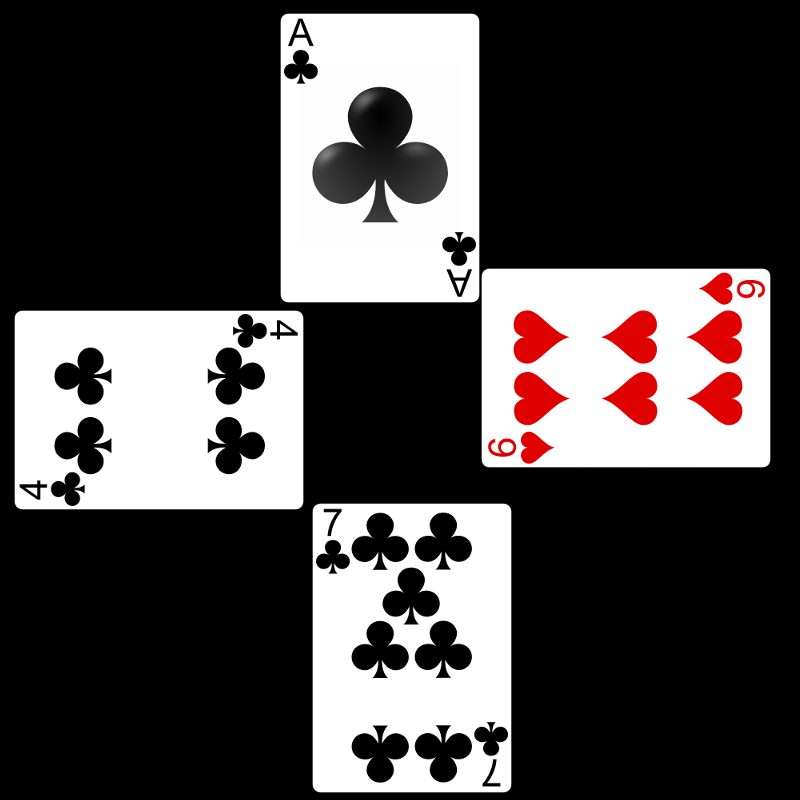
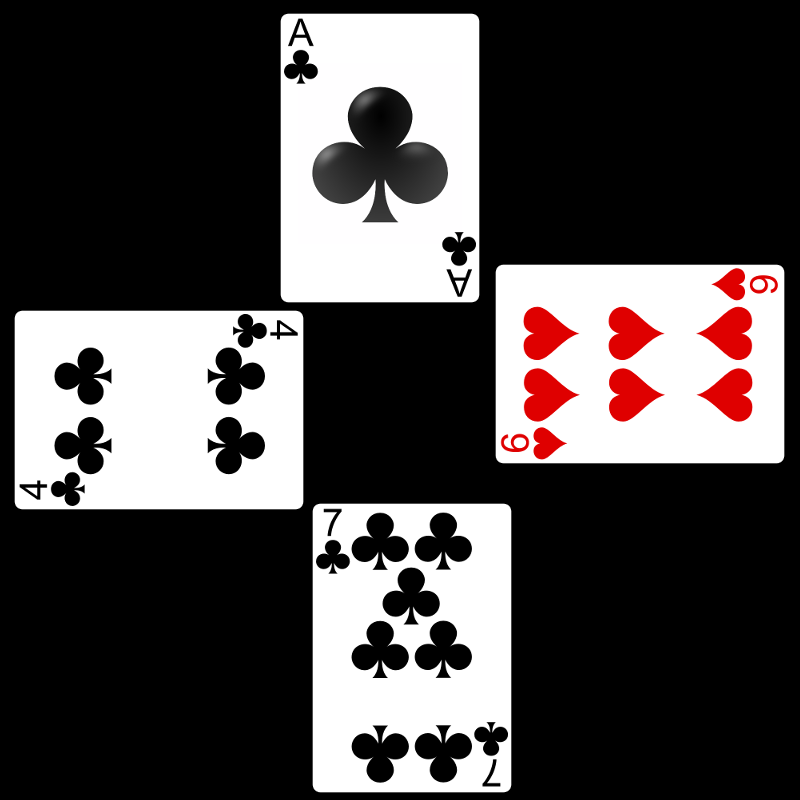
Final Image now has written on the card who is the winner and who is the loser.

Changed region(s): [[0.5938, 0.3125, 1.0, 0.5938]]

diff --git a/Hearts/main.cpp b/Hearts/main.cpp
@@ -11,7 +11,7 @@
 // Debug defines
 // #define DEBUG_INITIAL_TRANSFORMS
 // #define DEBUG_HOMOGRAPHY
-#define DEBUG_CARD_MATCHES
+// #define DEBUG_CARD_MATCHES
 
 #define OPTIMIZATION_VAL 250
 #define DECK_SIZE 52
@@ -47,7 +47,8 @@ vector<Card> loadDeck() {
 
 			if (card.empty()) {
 				cout << "Error reading file " + cardType + "..." << endl;
-			} else {
+			}
+			else {
 				cout << "Loading resource " + cardType + ".png" + "..." << endl;
 				Card temp = Card(cardType, card);
 #pragma omp critical
@@ -59,7 +60,7 @@ vector<Card> loadDeck() {
 		}
 	}
 
-	cout << "Resources loaded. " << cardsLoaded  << " cards loaded." << endl;
+	cout << "Resources loaded. " << cardsLoaded << " cards loaded." << endl;
 	return cards;
 }
 
@@ -89,13 +90,31 @@ Mat loadImageToMat(string fileName) {
 	if (srcImg.empty()) {
 		cout << "Can't read the source image. Aborting." << endl;
 		exit(EXIT_FAILURE);
-	} else {
+	}
+	else {
 		return srcImg;
 	}
 }
 
+Mat mergeImages(Mat img1, Mat img2){
+
+	Mat gray, gray_inv, tempFinal1, tempFinal2;
+
+	cvtColor(img2, gray, CV_BGR2GRAY);
+	threshold(gray, gray, 0, 255, CV_THRESH_BINARY);
+
+	bitwise_not(gray, gray_inv);
+
+	img1.copyTo(tempFinal1, gray_inv);
+	img2.copyTo(tempFinal2, gray);
+
+	Mat final;
+	final = tempFinal1 + tempFinal2;
+	return final;
+}
+
 int main(int argc, char** argv) {
-	srand((unsigned int) time(NULL));
+	srand((unsigned int)time(NULL));
 
 	// Load image for analysis
 	Mat srcImg = loadImageToMat("table1.png");
@@ -136,13 +155,6 @@ int main(int argc, char** argv) {
 		vector<Point> approx;
 		approxPolyDP(card, approx, 0.02*peri, true);
 
-		auto rect = minAreaRect(listOfContours[i]);
-		CvPoint2D32f r[4];
-		cvBoxPoints(rect, r);
-		vector<Point2f> rectangle;
-		for each (CvPoint2D32f var in r)
-			rectangle.push_back(var);
-
 		vector<Point2f> corners = vector<Point2f>();
 
 		for each (Point2f var in approx) {
@@ -157,7 +169,8 @@ int main(int argc, char** argv) {
 			quads[1] = cv::Point(homography.cols, homography.rows);
 			quads[2] = cv::Point(0, homography.rows);
 			quads[3] = cv::Point(0, 0);
-		} else {
+		}
+		else {
 			quads[0] = cv::Point(0, 0);
 			quads[1] = cv::Point(homography.cols, 0);
 			quads[2] = cv::Point(homography.cols, homography.rows);
@@ -173,9 +186,43 @@ int main(int argc, char** argv) {
 		auto transform = getPerspectiveTransform(temp, quads);
 		warpPerspective(srcImg, homography, transform, homography.size());
 
-		cardsInPlay.push_back(Card(homography));
-
 		cv::polylines(srcImg, listOfContours[i], true, Scalar(0, 0, 255), 3);
+
+		/* Creation and wraping of text homographies */
+
+		// Create empty matrixs for each case
+		int baseline = 0;
+		Mat loserTextMatrix = Mat::zeros(726, 500, CV_8UC3);
+		Mat winnerTextMatrix = Mat::zeros(726, 500, CV_8UC3);
+
+		//Homography of the card with only the text "Loser"
+		Size textSizeLoser = getTextSize("Loser", FONT_HERSHEY_SCRIPT_SIMPLEX, 5, 4, &baseline);
+		Point loserTextOrg((loserTextMatrix.cols - textSizeLoser.width) / 2, (loserTextMatrix.rows + textSizeLoser.height) / 2);
+		putText(loserTextMatrix, "Loser", loserTextOrg, FONT_HERSHEY_SCRIPT_SIMPLEX, 5, Scalar(0, 195, 255), 4, CV_AA);
+
+		//Homography of the card with only the text "Winner"
+		Size textSizeWinner = getTextSize("Winner", FONT_HERSHEY_SCRIPT_SIMPLEX, 5, 4, &baseline);
+		Point winnerTextOrg((winnerTextMatrix.cols - textSizeWinner.width) / 2, (winnerTextMatrix.rows + textSizeWinner.height) / 2);
+		putText(winnerTextMatrix, "Winner", winnerTextOrg, FONT_HERSHEY_SCRIPT_SIMPLEX, 5, Scalar(0, 255, 36), 4, CV_AA);
+
+		vector<Point2f> srcPoints;
+		vector<Point2f> destPoints;
+
+		for (size_t i = 0; i < 4; i++)
+			srcPoints.push_back(quads[i]);
+
+		for (size_t i = 0; i < 4; i++)
+			destPoints.push_back(temp[i]);
+
+		//Transform matrix that was applied to the card to obtain the homograpy
+		Mat textHomography = findHomography(srcPoints, destPoints);
+
+		Mat loserTextWarped;
+		Mat winnerTextWarped;
+		warpPerspective(loserTextMatrix, loserTextWarped, textHomography, srcImg.size());
+		warpPerspective(winnerTextMatrix, winnerTextWarped, textHomography, srcImg.size());
+
+		cardsInPlay.push_back(Card(homography, winnerTextWarped, loserTextWarped));
 
 #ifdef DEBUG_HOMOGRAPHY
 		namedWindow("Homography " + to_string(i + 1), 1);
@@ -200,7 +247,7 @@ int main(int argc, char** argv) {
 
 			for (int i = 0; i < matches.size(); i++) {
 				if (matches[i].distance < OPTIMIZATION_VAL) {
-					goodMatches.push_back(matches[i]); 
+					goodMatches.push_back(matches[i]);
 				}
 			}
 
@@ -209,7 +256,8 @@ int main(int argc, char** argv) {
 				if (bestMatches.empty()) {
 					bestMatches = goodMatches;
 					matchedCard = cards[j];
-				} else if (goodMatches.size() > bestMatches.size()) {
+				}
+				else if (goodMatches.size() > bestMatches.size()) {
 					bestMatches = goodMatches;
 					matchedCard = cards[j];
 				}
@@ -225,21 +273,24 @@ int main(int argc, char** argv) {
 		namedWindow("Matched with " + matchedCard._name, 1);
 		Mat img_matches;
 		drawMatches(cardsInPlay[k]._cardMatrix, cardsInPlay[k]._keyPoints,
-					matchedCard._cardMatrix, matchedCard._keyPoints,
-					bestMatches, img_matches);
+			matchedCard._cardMatrix, matchedCard._keyPoints,
+			bestMatches, img_matches);
 		imshow("Matched with " + matchedCard._name, img_matches);
 #endif
 	}
+
 	Card winner = whoIsWinner(cardsInPlay);
 
-	//displayWinner(srcImg, winner);
+	Mat finalImg = srcImg;
+
+	finalImg = mergeImages(finalImg, winner._winnerHomography);
+
+	for (size_t i = 0; i < cardsInPlay.size(); i++)
+		if (cardsInPlay[i]._name != winner._name)
+			finalImg = mergeImages(finalImg, cardsInPlay[i]._loserHomography);
 
 	namedWindow("Final", 1);
-	imshow("Final", srcImg);
-
-	namedWindow("Hand Winner", 1);
-	imshow("Hand Winner", winner._cardMatrix);
-
+	imshow("Final", finalImg);
 
 	waitKey(0); // Wait for a keystroke in the window
 	return 0;

diff --git a/Hearts/Card.h b/Hearts/Card.h
@@ -12,7 +12,7 @@ class Card
 {
 public:
 	Card(){}
-	Card(Mat mat);
+	Card(Mat mat, Mat w, Mat l);
 	Card(std::string name, Mat mat);
 	~Card();
 
@@ -22,12 +22,17 @@ public:
 	Mat _descriptors;
 	std::string _suit;
 	int _value;
+	Mat _winnerHomography;
+	Mat _loserHomography;
 };
 
-Card::Card(Mat mat){
+Card::Card(Mat mat, Mat w, Mat l){
 
 	_name = "Unknown";
 	_cardMatrix = mat;
+
+	_winnerHomography = w;
+	_loserHomography = l;
 
 	//Calculade this card's keypoints and descriptors
 	SiftFeatureDetector detector(400);
